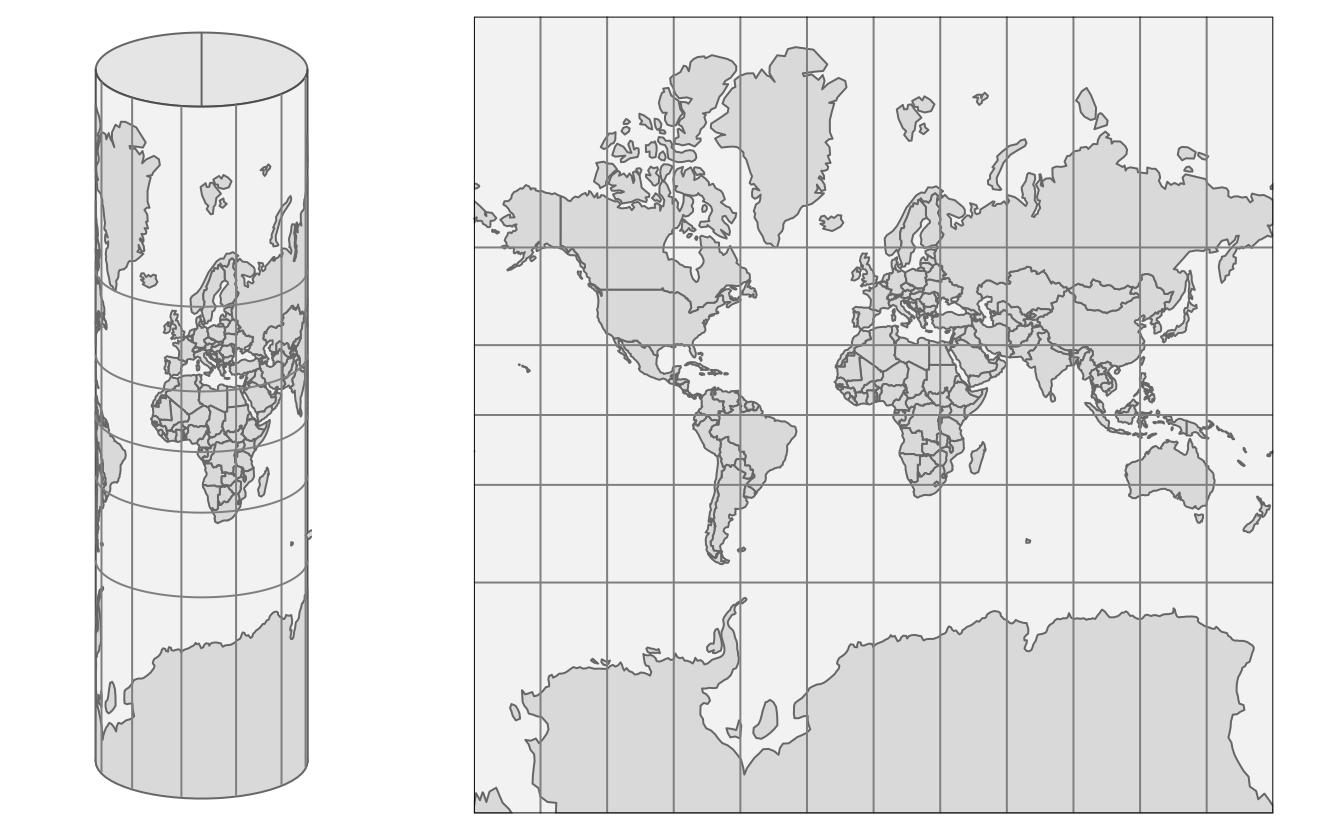
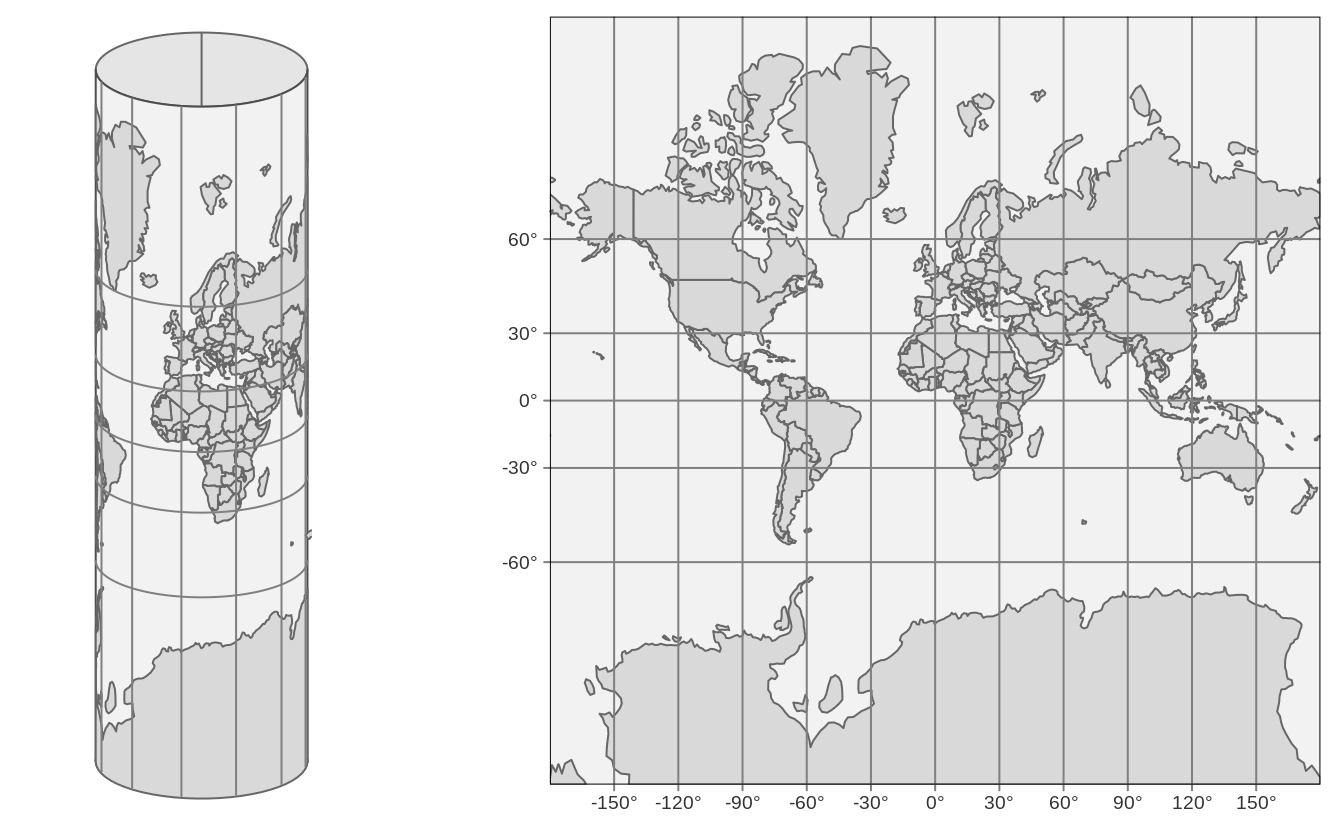
Deploy commit: improved crs text 1f35124778aa0e60145ceff1bf062eb523e98e44

Changed region(s): [[0.3438, 0.0301, 1.0, 0.994], [0.3438, 0.5422, 0.4688, 0.6024], [0.9688, 0.5723, 1.0, 0.6024]]

diff --git a/tmshape.html b/tmshape.html
@@ -24,7 +24,7 @@
 <meta name="author" content="Martijn Tennekes, Jakub Nowosad" />
 
 
-<meta name="date" content="2020-06-24" />
+<meta name="date" content="2020-06-25" />
 
   <meta name="viewport" content="width=device-width, initial-scale=1" />
   <meta name="apple-mobile-web-app-capable" content="yes" />
@@ -162,7 +162,6 @@ code span.wa { color: #60a0b0; font-weight: bold; font-style: italic; } /* Warni
 <li class="chapter" data-level="4.1.1" data-path="tmshape.html"><a href="tmshape.html#how-to-put-an-orange-peel-flat-on-the-table"><i class="fa fa-check"></i><b>4.1.1</b> How to put an orange peel flat on the table?</a></li>
 <li class="chapter" data-level="4.1.2" data-path="tmshape.html"><a href="tmshape.html#how-to-model-the-surface-of-the-earth"><i class="fa fa-check"></i><b>4.1.2</b> How to model the surface of the earth?</a></li>
 <li class="chapter" data-level="4.1.3" data-path="tmshape.html"><a href="tmshape.html#platte-carrée-and-web-mercator"><i class="fa fa-check"></i><b>4.1.3</b> Platte Carrée and Web Mercator</a></li>
-<li class="chapter" data-level="4.1.4" data-path="tmshape.html"><a href="tmshape.html#mercator-projection"><i class="fa fa-check"></i><b>4.1.4</b> Mercator projection</a></li>
 </ul></li>
 <li class="chapter" data-level="4.2" data-path="tmshape.html"><a href="tmshape.html#overview-of-map-projections"><i class="fa fa-check"></i><b>4.2</b> Overview of map projections</a></li>
 </ul></li>
@@ -238,21 +237,20 @@ The earth is metaphorically speaking a little fat: the circumference around the 
 <!--source: https://en.wikipedia.org/wiki/Earth_physical_characteristics_tables-->
 Therefore, the earth can better be described as an ellipsoid.
 The same applies to an orange; every orange is a little different, but probably very few oranges are perfect spheres.</p>
-<p>The ellipsoid is a good mathematical model to describe the earth’s surface.
-Keep in mind that the surface of the earth is not smooth;
+<p>Although the ellipsoid is a good mathematical model to describe the earth’s surface, keep in mind that the surface of the earth is not smooth;
 land mass usually lies on a higher altitude than sea level.
 We could potentially map each point on the surface of the earth using a three-dimensional <span class="math inline">\((x, y, z)\)</span> Cartesian coordinate system with the center of the mass of the Earth being the origin (0, 0, 0).
 However, since this has many mathematical complications, the ellipsoid is often sufficient as a model of the surface of the earth.</p>
 <p>This ellipsoid model and its translation to the Earth’ surface is called a <em>(geodetic) datum</em>.
 The most popular datum is WGS84, which has been introduced in 1984 as an international standard, and has been last revised in 2004.
 There are many (slightly) different datums, which are often tailored for local applications.
-For instance, NAD83, ETRS89, and GDA94 are slightly better models for North-America, Europe, Australia respectively.
+For instance, NAD83, ETRS89, and GDA94 are slightly better models for North-America, Europe, and Australia respectively.
 However, since WGS84 is a very good approximation of the earth as a whole, it has been widely adopted worldwide and is also used by the Global Positioning System (GPS).</p>
 <p>When we have specified a datum, we are able to specify geographic locations with two familiar variables, namely <em>latitude</em> and <em>longitude</em>.
 The latitude specifies the north-south position in degrees, where latitude = 0<span class="math inline">\(^\circ\)</span> is the equator.
 The latitudes for the north and south pole are 90<span class="math inline">\(^\circ\)</span> and <span class="math inline">\(-90^\circ\)</span> respectively.
 The longitude specifies the east-west position in degrees, where by convention, the longitude = 0<span class="math inline">\(^\circ\)</span> meridian crosses the Royal Observatory in Greenwich, UK.
-Note that since longitude is specified in degrees, the longitude range goes from -180<span class="math inline">\(^\circ\)</span> to 180<span class="math inline">\(^\circ\)</span>, where -180<span class="math inline">\(^\circ\)</span> and <span class="math inline">\(^\circ\)</span> specify the same longitude.</p>
+The Longitude range is -180<span class="math inline">\(^\circ\)</span> to 180<span class="math inline">\(^\circ\)</span>, and since this is a full circle, -180<span class="math inline">\(^\circ\)</span> and <span class="math inline">\(^\circ\)</span> specify the same longitude.</p>
 <p>When we see the earth in its three-dimensional form, as in Figure <a href="tmshape.html#fig:orange">4.1</a>, the latitude parallels are the horizontal lines around the earth, and the longitude meridians are the vertical lines around the earth. The set of longitude meridians and latitude parallels is also referred to as <em>graticule</em>.
 In all the figures in this section, latitude parallels are shown as gray lines for <span class="math inline">\(-60^\circ\)</span>, <span class="math inline">\(-30^\circ\)</span>, <span class="math inline">\(0^\circ\)</span>, <span class="math inline">\(30^\circ\)</span> and <span class="math inline">\(60^\circ\)</span>, and longitude meridians from <span class="math inline">\(-180^\circ\)</span> to <span class="math inline">\(180^\circ\)</span> at every <span class="math inline">\(30^\circ\)</span>.</p>
 <p>Please keep in mind that only a latitude and longitude are not sufficient to specify a geographic location.
@@ -274,16 +272,13 @@ FIGURE 4.3: The WGS84 coordinate system (EPSG4326)
 </div>
 <p>When we fictitiously make little holes in the orange peel at both poles, and stretch these open so wide that they have the same width as the equator, we obtain the cylinder depicted in Figure <a href="tmshape.html#fig:crs-04">4.3</a> (left).
 Note that the lontitude lines have become straight vertical lines.
-When we unroll this cylinder, we obtain a map where the x and y coordinates are the longitude and latitude respectively. This CRS, which is known as EPSG4326, is shown in Figure <a href="tmshape.html#fig:crs-04">4.3</a> (right).</p>
+When we unroll this cylinder, we obtain a map where the <span class="math inline">\(x\)</span> and <span class="math inline">\(y\)</span> coordinates are the longitude and latitude respectively. This CRS, which is known as EPSG4326, is shown in Figure <a href="tmshape.html#fig:crs-04">4.3</a> (right).</p>
+<p>EPSG4326 is an <em>unprojected</em> CRS, since the longitude and latitude have not been transformed. With <em>projected</em> CRSs, the <span class="math inline">\(x\)</span> and <span class="math inline">\(y\)</span> coordinates refer to specific measurement units, usually meters.
+The projected variant of this CRS is called the <em>Platte Carrée</em> (EPSG4087), and is exactly the same map as shown in Figure <a href="tmshape.html#fig:crs-04">4.3</a> (right), but with other <span class="math inline">\(x\)</span> and <span class="math inline">\(y\)</span> value ranges.</p>
 <p>Observe since we stretched the poles open, the area near the poles have been stretched out as well.
 More specifically, the closer the land is to one of the poles, the more it has been stretched out.
 Since the stretching direction is only horizontally, the shapes of the areas have become wider.
-A good example is Greenland, which is normally a ‘tall’ area (see Figure <a href="tmshape.html#fig:orange">4.1</a>).</p>
-<p>EPSG4326 is an <em>unprojected</em> CRS, since the longitude and latitude have not been transformed. With <em>projected</em> CRSs, the x and y coordinates refer to specific measurement units, usually meters.
-The projected variant of this CRS is called the <em>Platte Carrée</em> (EPSG4087), and is exactly the same map (but with other x and y value ranges) as shown in Figure <a href="tmshape.html#fig:crs-04">4.3</a> (right).</p>
-</div>
-<div id="mercator-projection" class="section level3">
-<h3><span class="header-section-number">4.1.4</span> Mercator projection</h3>
+A good example is Greenland, which is normally a ‘tall’ area (as can be seen in Figure <a href="tmshape.html#fig:orange">4.1</a>).</p>
 <p>In order to fix these deformed areas, Gerardus Mercator, a Flemish geographer in the 16th century introduced a method to compensate for this by inflating the areas near the poles even more, but now only in a vertical direction.
 This projection is called the Mercator projection.
 For web applications, this projection has been slightly modified and renamed to the Web Mercator projection (EPSG3857).
@@ -297,7 +292,7 @@ FIGURE 4.4: Web Mercator projection (EPSG3857)
 <p>Although the areas near the poles have been inflated quite a lot, especially Antarctica and Greenland, the shape of the areas is correct (which can be seen by comparing with Figure <a href="tmshape.html#fig:orange">4.1</a>).
 The Mercator projection is very useful for navigational purposes, and has therefore been embraced by sailors ever since.
 Also today, the Web Mercator is the de facto standard for interactive maps and navigation services.
-However, for maps that show data the (Web) Mercator projection should be used with great caution, because the hugely inflated areas will influence how we perceive the data.
+However, for maps that show data the (Web) Mercator projection should be used with great caution, because the hugely inflated areas will influence how we perceive spatial data.
 We will discuss this in the next section.</p>
 </div>
 </div>

diff --git a/index.html b/index.html
@@ -24,7 +24,7 @@
 <meta name="author" content="Martijn Tennekes, Jakub Nowosad" />
 
 
-<meta name="date" content="2020-06-24" />
+<meta name="date" content="2020-06-25" />
 
   <meta name="viewport" content="width=device-width, initial-scale=1" />
   <meta name="apple-mobile-web-app-capable" content="yes" />
@@ -162,7 +162,6 @@ code span.wa { color: #60a0b0; font-weight: bold; font-style: italic; } /* Warni
 <li class="chapter" data-level="4.1.1" data-path="tmshape.html"><a href="tmshape.html#how-to-put-an-orange-peel-flat-on-the-table"><i class="fa fa-check"></i><b>4.1.1</b> How to put an orange peel flat on the table?</a></li>
 <li class="chapter" data-level="4.1.2" data-path="tmshape.html"><a href="tmshape.html#how-to-model-the-surface-of-the-earth"><i class="fa fa-check"></i><b>4.1.2</b> How to model the surface of the earth?</a></li>
 <li class="chapter" data-level="4.1.3" data-path="tmshape.html"><a href="tmshape.html#platte-carrée-and-web-mercator"><i class="fa fa-check"></i><b>4.1.3</b> Platte Carrée and Web Mercator</a></li>
-<li class="chapter" data-level="4.1.4" data-path="tmshape.html"><a href="tmshape.html#mercator-projection"><i class="fa fa-check"></i><b>4.1.4</b> Mercator projection</a></li>
 </ul></li>
 <li class="chapter" data-level="4.2" data-path="tmshape.html"><a href="tmshape.html#overview-of-map-projections"><i class="fa fa-check"></i><b>4.2</b> Overview of map projections</a></li>
 </ul></li>
@@ -201,12 +200,12 @@ code span.wa { color: #60a0b0; font-weight: bold; font-style: italic; } /* Warni
 <div id="header">
 <h1 class="title">Elegant and informative maps with <strong>tmap</strong></h1>
 <p class="author"><em>Martijn Tennekes, Jakub Nowosad</em></p>
-<p class="date"><em>2020-06-24</em></p>
+<p class="date"><em>2020-06-25</em></p>
 </div>
 <div id="welcome" class="section level1 unnumbered">
 <h1>Welcome</h1>
 <p>This is the online home of <em>Elegant and informative maps with <strong>tmap</strong></em>, a book on geospatial data visualization with the R-package tmap.</p>
-<p>This version of the book was built on GH Actions on 2020-06-24.</p>
+<p>This version of the book was built on GH Actions on 2020-06-25.</p>
 <div id="how-to-contribute" class="section level2 unnumbered">
 <h2>How to contribute?</h2>
 

diff --git a/animations.html b/animations.html
@@ -24,7 +24,7 @@
 <meta name="author" content="Martijn Tennekes, Jakub Nowosad" />
 
 
-<meta name="date" content="2020-06-24" />
+<meta name="date" content="2020-06-25" />
 
   <meta name="viewport" content="width=device-width, initial-scale=1" />
   <meta name="apple-mobile-web-app-capable" content="yes" />
@@ -162,7 +162,6 @@ code span.wa { color: #60a0b0; font-weight: bold; font-style: italic; } /* Warni
 <li class="chapter" data-level="4.1.1" data-path="tmshape.html"><a href="tmshape.html#how-to-put-an-orange-peel-flat-on-the-table"><i class="fa fa-check"></i><b>4.1.1</b> How to put an orange peel flat on the table?</a></li>
 <li class="chapter" data-level="4.1.2" data-path="tmshape.html"><a href="tmshape.html#how-to-model-the-surface-of-the-earth"><i class="fa fa-check"></i><b>4.1.2</b> How to model the surface of the earth?</a></li>
 <li class="chapter" data-level="4.1.3" data-path="tmshape.html"><a href="tmshape.html#platte-carrée-and-web-mercator"><i class="fa fa-check"></i><b>4.1.3</b> Platte Carrée and Web Mercator</a></li>
-<li class="chapter" data-level="4.1.4" data-path="tmshape.html"><a href="tmshape.html#mercator-projection"><i class="fa fa-check"></i><b>4.1.4</b> Mercator projection</a></li>
 </ul></li>
 <li class="chapter" data-level="4.2" data-path="tmshape.html"><a href="tmshape.html#overview-of-map-projections"><i class="fa fa-check"></i><b>4.2</b> Overview of map projections</a></li>
 </ul></li>

diff --git a/geodata.html b/geodata.html
@@ -24,7 +24,7 @@
 <meta name="author" content="Martijn Tennekes, Jakub Nowosad" />
 
 
-<meta name="date" content="2020-06-24" />
+<meta name="date" content="2020-06-25" />
 
   <meta name="viewport" content="width=device-width, initial-scale=1" />
   <meta name="apple-mobile-web-app-capable" content="yes" />
@@ -162,7 +162,6 @@ code span.wa { color: #60a0b0; font-weight: bold; font-style: italic; } /* Warni
 <li class="chapter" data-level="4.1.1" data-path="tmshape.html"><a href="tmshape.html#how-to-put-an-orange-peel-flat-on-the-table"><i class="fa fa-check"></i><b>4.1.1</b> How to put an orange peel flat on the table?</a></li>
 <li class="chapter" data-level="4.1.2" data-path="tmshape.html"><a href="tmshape.html#how-to-model-the-surface-of-the-earth"><i class="fa fa-check"></i><b>4.1.2</b> How to model the surface of the earth?</a></li>
 <li class="chapter" data-level="4.1.3" data-path="tmshape.html"><a href="tmshape.html#platte-carrée-and-web-mercator"><i class="fa fa-check"></i><b>4.1.3</b> Platte Carrée and Web Mercator</a></li>
-<li class="chapter" data-level="4.1.4" data-path="tmshape.html"><a href="tmshape.html#mercator-projection"><i class="fa fa-check"></i><b>4.1.4</b> Mercator projection</a></li>
 </ul></li>
 <li class="chapter" data-level="4.2" data-path="tmshape.html"><a href="tmshape.html#overview-of-map-projections"><i class="fa fa-check"></i><b>4.2</b> Overview of map projections</a></li>
 </ul></li>

diff --git a/goodmaps.html b/goodmaps.html
@@ -24,7 +24,7 @@
 <meta name="author" content="Martijn Tennekes, Jakub Nowosad" />
 
 
-<meta name="date" content="2020-06-24" />
+<meta name="date" content="2020-06-25" />
 
   <meta name="viewport" content="width=device-width, initial-scale=1" />
   <meta name="apple-mobile-web-app-capable" content="yes" />
@@ -162,7 +162,6 @@ code span.wa { color: #60a0b0; font-weight: bold; font-style: italic; } /* Warni
 <li class="chapter" data-level="4.1.1" data-path="tmshape.html"><a href="tmshape.html#how-to-put-an-orange-peel-flat-on-the-table"><i class="fa fa-check"></i><b>4.1.1</b> How to put an orange peel flat on the table?</a></li>
 <li class="chapter" data-level="4.1.2" data-path="tmshape.html"><a href="tmshape.html#how-to-model-the-surface-of-the-earth"><i class="fa fa-check"></i><b>4.1.2</b> How to model the surface of the earth?</a></li>
 <li class="chapter" data-level="4.1.3" data-path="tmshape.html"><a href="tmshape.html#platte-carrée-and-web-mercator"><i class="fa fa-check"></i><b>4.1.3</b> Platte Carrée and Web Mercator</a></li>
-<li class="chapter" data-level="4.1.4" data-path="tmshape.html"><a href="tmshape.html#mercator-projection"><i class="fa fa-check"></i><b>4.1.4</b> Mercator projection</a></li>
 </ul></li>
 <li class="chapter" data-level="4.2" data-path="tmshape.html"><a href="tmshape.html#overview-of-map-projections"><i class="fa fa-check"></i><b>4.2</b> Overview of map projections</a></li>
 </ul></li>

diff --git a/interactive.html b/interactive.html
@@ -24,7 +24,7 @@
 <meta name="author" content="Martijn Tennekes, Jakub Nowosad" />
 
 
-<meta name="date" content="2020-06-24" />
+<meta name="date" content="2020-06-25" />
 
   <meta name="viewport" content="width=device-width, initial-scale=1" />
   <meta name="apple-mobile-web-app-capable" content="yes" />
@@ -162,7 +162,6 @@ code span.wa { color: #60a0b0; font-weight: bold; font-style: italic; } /* Warni
 <li class="chapter" data-level="4.1.1" data-path="tmshape.html"><a href="tmshape.html#how-to-put-an-orange-peel-flat-on-the-table"><i class="fa fa-check"></i><b>4.1.1</b> How to put an orange peel flat on the table?</a></li>
 <li class="chapter" data-level="4.1.2" data-path="tmshape.html"><a href="tmshape.html#how-to-model-the-surface-of-the-earth"><i class="fa fa-check"></i><b>4.1.2</b> How to model the surface of the earth?</a></li>
 <li class="chapter" data-level="4.1.3" data-path="tmshape.html"><a href="tmshape.html#platte-carrée-and-web-mercator"><i class="fa fa-check"></i><b>4.1.3</b> Platte Carrée and Web Mercator</a></li>
-<li class="chapter" data-level="4.1.4" data-path="tmshape.html"><a href="tmshape.html#mercator-projection"><i class="fa fa-check"></i><b>4.1.4</b> Mercator projection</a></li>
 </ul></li>
 <li class="chapter" data-level="4.2" data-path="tmshape.html"><a href="tmshape.html#overview-of-map-projections"><i class="fa fa-check"></i><b>4.2</b> Overview of map projections</a></li>
 </ul></li>

diff --git a/intro.html b/intro.html
@@ -24,7 +24,7 @@
 <meta name="author" content="Martijn Tennekes, Jakub Nowosad" />
 
 
-<meta name="date" content="2020-06-24" />
+<meta name="date" content="2020-06-25" />
 
   <meta name="viewport" content="width=device-width, initial-scale=1" />
   <meta name="apple-mobile-web-app-capable" content="yes" />
@@ -162,7 +162,6 @@ code span.wa { color: #60a0b0; font-weight: bold; font-style: italic; } /* Warni
 <li class="chapter" data-level="4.1.1" data-path="tmshape.html"><a href="tmshape.html#how-to-put-an-orange-peel-flat-on-the-table"><i class="fa fa-check"></i><b>4.1.1</b> How to put an orange peel flat on the table?</a></li>
 <li class="chapter" data-level="4.1.2" data-path="tmshape.html"><a href="tmshape.html#how-to-model-the-surface-of-the-earth"><i class="fa fa-check"></i><b>4.1.2</b> How to model the surface of the earth?</a></li>
 <li class="chapter" data-level="4.1.3" data-path="tmshape.html"><a href="tmshape.html#platte-carrée-and-web-mercator"><i class="fa fa-check"></i><b>4.1.3</b> Platte Carrée and Web Mercator</a></li>
-<li class="chapter" data-level="4.1.4" data-path="tmshape.html"><a href="tmshape.html#mercator-projection"><i class="fa fa-check"></i><b>4.1.4</b> Mercator projection</a></li>
 </ul></li>
 <li class="chapter" data-level="4.2" data-path="tmshape.html"><a href="tmshape.html#overview-of-map-projections"><i class="fa fa-check"></i><b>4.2</b> Overview of map projections</a></li>
 </ul></li>

diff --git a/layers.html b/layers.html
@@ -24,7 +24,7 @@
 <meta name="author" content="Martijn Tennekes, Jakub Nowosad" />
 
 
-<meta name="date" content="2020-06-24" />
+<meta name="date" content="2020-06-25" />
 
   <meta name="viewport" content="width=device-width, initial-scale=1" />
   <meta name="apple-mobile-web-app-capable" content="yes" />
@@ -162,7 +162,6 @@ code span.wa { color: #60a0b0; font-weight: bold; font-style: italic; } /* Warni
 <li class="chapter" data-level="4.1.1" data-path="tmshape.html"><a href="tmshape.html#how-to-put-an-orange-peel-flat-on-the-table"><i class="fa fa-check"></i><b>4.1.1</b> How to put an orange peel flat on the table?</a></li>
 <li class="chapter" data-level="4.1.2" data-path="tmshape.html"><a href="tmshape.html#how-to-model-the-surface-of-the-earth"><i class="fa fa-check"></i><b>4.1.2</b> How to model the surface of the earth?</a></li>
 <li class="chapter" data-level="4.1.3" data-path="tmshape.html"><a href="tmshape.html#platte-carrée-and-web-mercator"><i class="fa fa-check"></i><b>4.1.3</b> Platte Carrée and Web Mercator</a></li>
-<li class="chapter" data-level="4.1.4" data-path="tmshape.html"><a href="tmshape.html#mercator-projection"><i class="fa fa-check"></i><b>4.1.4</b> Mercator projection</a></li>
 </ul></li>
 <li class="chapter" data-level="4.2" data-path="tmshape.html"><a href="tmshape.html#overview-of-map-projections"><i class="fa fa-check"></i><b>4.2</b> Overview of map projections</a></li>
 </ul></li>

diff --git a/layout.html b/layout.html
@@ -24,7 +24,7 @@
 <meta name="author" content="Martijn Tennekes, Jakub Nowosad" />
 
 
-<meta name="date" content="2020-06-24" />
+<meta name="date" content="2020-06-25" />
 
   <meta name="viewport" content="width=device-width, initial-scale=1" />
   <meta name="apple-mobile-web-app-capable" content="yes" />
@@ -162,7 +162,6 @@ code span.wa { color: #60a0b0; font-weight: bold; font-style: italic; } /* Warni
 <li class="chapter" data-level="4.1.1" data-path="tmshape.html"><a href="tmshape.html#how-to-put-an-orange-peel-flat-on-the-table"><i class="fa fa-check"></i><b>4.1.1</b> How to put an orange peel flat on the table?</a></li>
 <li class="chapter" data-level="4.1.2" data-path="tmshape.html"><a href="tmshape.html#how-to-model-the-surface-of-the-earth"><i class="fa fa-check"></i><b>4.1.2</b> How to model the surface of the earth?</a></li>
 <li class="chapter" data-level="4.1.3" data-path="tmshape.html"><a href="tmshape.html#platte-carrée-and-web-mercator"><i class="fa fa-check"></i><b>4.1.3</b> Platte Carrée and Web Mercator</a></li>
-<li class="chapter" data-level="4.1.4" data-path="tmshape.html"><a href="tmshape.html#mercator-projection"><i class="fa fa-check"></i><b>4.1.4</b> Mercator projection</a></li>
 </ul></li>
 <li class="chapter" data-level="4.2" data-path="tmshape.html"><a href="tmshape.html#overview-of-map-projections"><i class="fa fa-check"></i><b>4.2</b> Overview of map projections</a></li>
 </ul></li>

diff --git a/multiples.html b/multiples.html
@@ -24,7 +24,7 @@
 <meta name="author" content="Martijn Tennekes, Jakub Nowosad" />
 
 
-<meta name="date" content="2020-06-24" />
+<meta name="date" content="2020-06-25" />
 
   <meta name="viewport" content="width=device-width, initial-scale=1" />
   <meta name="apple-mobile-web-app-capable" content="yes" />
@@ -162,7 +162,6 @@ code span.wa { color: #60a0b0; font-weight: bold; font-style: italic; } /* Warni
 <li class="chapter" data-level="4.1.1" data-path="tmshape.html"><a href="tmshape.html#how-to-put-an-orange-peel-flat-on-the-table"><i class="fa fa-check"></i><b>4.1.1</b> How to put an orange peel flat on the table?</a></li>
 <li class="chapter" data-level="4.1.2" data-path="tmshape.html"><a href="tmshape.html#how-to-model-the-surface-of-the-earth"><i class="fa fa-check"></i><b>4.1.2</b> How to model the surface of the earth?</a></li>
 <li class="chapter" data-level="4.1.3" data-path="tmshape.html"><a href="tmshape.html#platte-carrée-and-web-mercator"><i class="fa fa-check"></i><b>4.1.3</b> Platte Carrée and Web Mercator</a></li>
-<li class="chapter" data-level="4.1.4" data-path="tmshape.html"><a href="tmshape.html#mercator-projection"><i class="fa fa-check"></i><b>4.1.4</b> Mercator projection</a></li>
 </ul></li>
 <li class="chapter" data-level="4.2" data-path="tmshape.html"><a href="tmshape.html#overview-of-map-projections"><i class="fa fa-check"></i><b>4.2</b> Overview of map projections</a></li>
 </ul></li>

diff --git a/nutshell.html b/nutshell.html
@@ -24,7 +24,7 @@
 <meta name="author" content="Martijn Tennekes, Jakub Nowosad" />
 
 
-<meta name="date" content="2020-06-24" />
+<meta name="date" content="2020-06-25" />
 
   <meta name="viewport" content="width=device-width, initial-scale=1" />
   <meta name="apple-mobile-web-app-capable" content="yes" />
@@ -162,7 +162,6 @@ code span.wa { color: #60a0b0; font-weight: bold; font-style: italic; } /* Warni
 <li class="chapter" data-level="4.1.1" data-path="tmshape.html"><a href="tmshape.html#how-to-put-an-orange-peel-flat-on-the-table"><i class="fa fa-check"></i><b>4.1.1</b> How to put an orange peel flat on the table?</a></li>
 <li class="chapter" data-level="4.1.2" data-path="tmshape.html"><a href="tmshape.html#how-to-model-the-surface-of-the-earth"><i class="fa fa-check"></i><b>4.1.2</b> How to model the surface of the earth?</a></li>
 <li class="chapter" data-level="4.1.3" data-path="tmshape.html"><a href="tmshape.html#platte-carrée-and-web-mercator"><i class="fa fa-check"></i><b>4.1.3</b> Platte Carrée and Web Mercator</a></li>
-<li class="chapter" data-level="4.1.4" data-path="tmshape.html"><a href="tmshape.html#mercator-projection"><i class="fa fa-check"></i><b>4.1.4</b> Mercator projection</a></li>
 </ul></li>
 <li class="chapter" data-level="4.2" data-path="tmshape.html"><a href="tmshape.html#overview-of-map-projections"><i class="fa fa-check"></i><b>4.2</b> Overview of map projections</a></li>
 </ul></li>

diff --git a/options.html b/options.html
@@ -24,7 +24,7 @@
 <meta name="author" content="Martijn Tennekes, Jakub Nowosad" />
 
 
-<meta name="date" content="2020-06-24" />
+<meta name="date" content="2020-06-25" />
 
   <meta name="viewport" content="width=device-width, initial-scale=1" />
   <meta name="apple-mobile-web-app-capable" content="yes" />
@@ -162,7 +162,6 @@ code span.wa { color: #60a0b0; font-weight: bold; font-style: italic; } /* Warni
 <li class="chapter" data-level="4.1.1" data-path="tmshape.html"><a href="tmshape.html#how-to-put-an-orange-peel-flat-on-the-table"><i class="fa fa-check"></i><b>4.1.1</b> How to put an orange peel flat on the table?</a></li>
 <li class="chapter" data-level="4.1.2" data-path="tmshape.html"><a href="tmshape.html#how-to-model-the-surface-of-the-earth"><i class="fa fa-check"></i><b>4.1.2</b> How to model the surface of the earth?</a></li>
 <li class="chapter" data-level="4.1.3" data-path="tmshape.html"><a href="tmshape.html#platte-carrée-and-web-mercator"><i class="fa fa-check"></i><b>4.1.3</b> Platte Carrée and Web Mercator</a></li>
-<li class="chapter" data-level="4.1.4" data-path="tmshape.html"><a href="tmshape.html#mercator-projection"><i class="fa fa-check"></i><b>4.1.4</b> Mercator projection</a></li>
 </ul></li>
 <li class="chapter" data-level="4.2" data-path="tmshape.html"><a href="tmshape.html#overview-of-map-projections"><i class="fa fa-check"></i><b>4.2</b> Overview of map projections</a></li>
 </ul></li>
